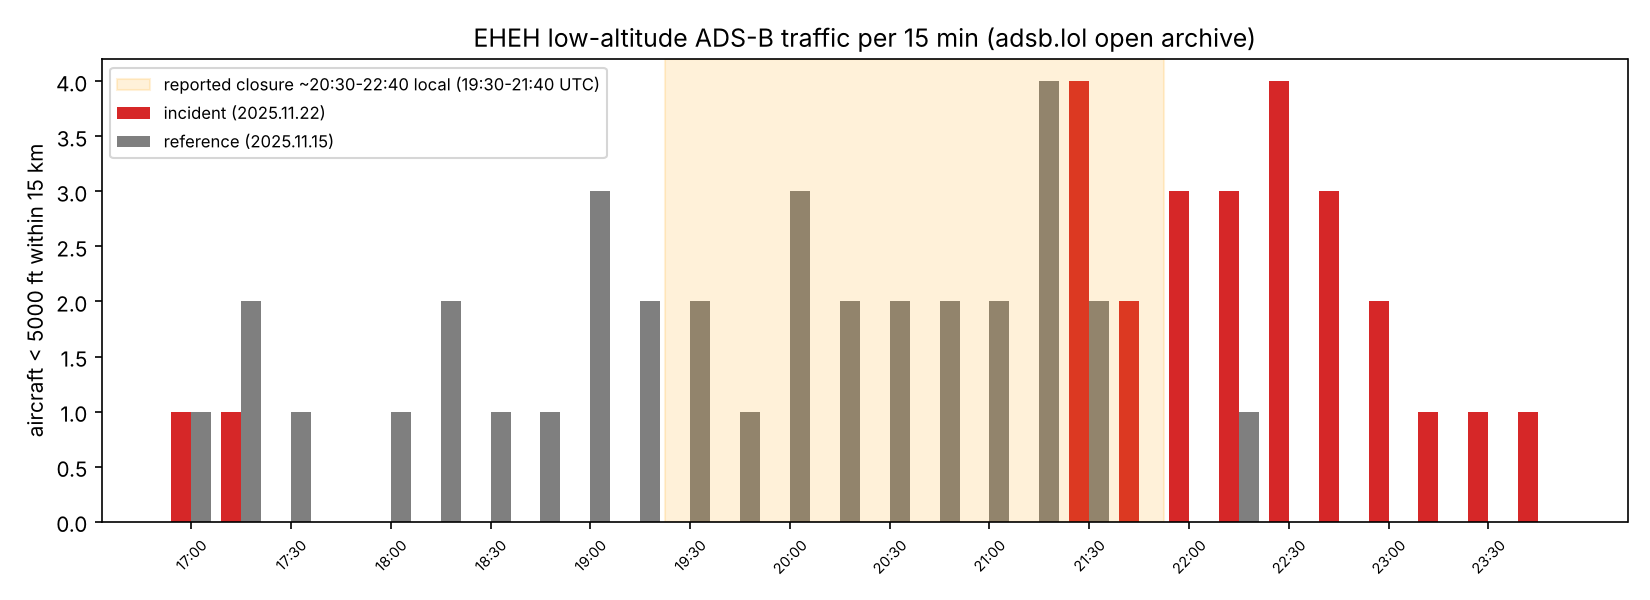
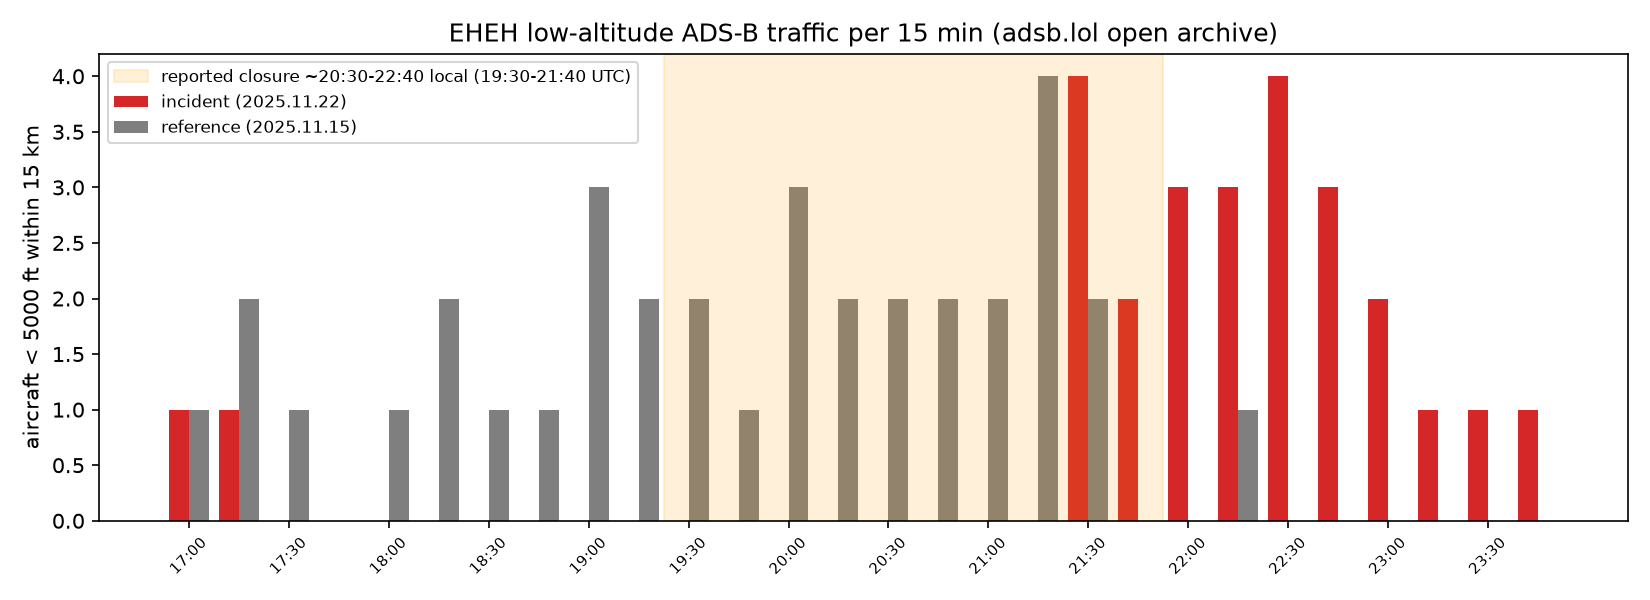
Use the laptop-run versions of the map, ADS-B chart and 07_airspace.py
Claude-Session: https://claude.ai/code/session_019PTpYg1t94J3TDv68SZz6y

diff --git a/docs/pilot-region/EindHoven-Yağız Akkaya/local-data-test/07_airspace.py b/docs/pilot-region/EindHoven-Yağız Akkaya/local-data-test/07_airspace.py
@@ -24,7 +24,6 @@ FALLBACK_BUFFER_M = 3000  # assumption, stated in the report
 PDOK_WFS = "https://service.pdok.nl/lvnl/drone-no-flyzones/wfs/v1_0"
 OPENAIP_NL = "https://storage.googleapis.com/29f98e10-a489-4c82-ae5e-489dbcd4912f/nl_asp.geojson"
 OURAIRPORTS_RUNWAYS = "https://davidmegginson.github.io/ourairports-data/runways.csv"
-PDOK_DEFENCE = "https://api.pdok.nl/defensie/luchtvaartobstakels-terugmeldingen/ogc/v1"
 
 
 def pdok_wfs():
@@ -34,25 +33,6 @@ def pdok_wfs():
         log("PDOK no-fly zones (old WFS)", ok, f"HTTP {r.status_code}" + ("" if ok else " (retired with the OGC API)"))
     except Exception as e:  # noqa: BLE001
         log("PDOK no-fly zones (old WFS)", False, str(e))
-
-
-def pdok_defence_obstacles():
-    """Defence aviation-obstacle reports (PDOK OGC API): the only related PDOK dataset left."""
-    try:
-        r = get(f"{PDOK_DEFENCE}/collections", params={"f": "json"}, retries=1)
-        r.raise_for_status()
-        feats = []
-        for c in [c["id"] for c in r.json().get("collections", [])]:
-            q = get(f"{PDOK_DEFENCE}/collections/{c}/items",
-                    params={"bbox": ",".join(map(str, CONTEXT_WGS84)), "f": "json", "limit": 1000}, retries=1)
-            q.raise_for_status()
-            feats += q.json().get("features", [])
-        (OUT / "pdok_defensie_obstacles_context.geojson").write_text(
-            json.dumps({"type": "FeatureCollection", "features": feats}), encoding="utf-8")
-        log("PDOK Defensie aviation obstacle reports", True,
-            f"API reachable; {len(feats)} obstacle report(s) in the EHEH context box")
-    except Exception as e:  # noqa: BLE001
-        log("PDOK Defensie aviation obstacle reports", False, str(e))
 
 
 def openaip():
@@ -119,6 +99,22 @@ def runway_fallback():
     log("OurAirports runways (EHEH)", True,
         f"{len(rows)} runway(s): {desc}; fallback zone = {FALLBACK_BUFFER_M} m buffer around the centreline (assumption)",
         runways=rows)
+
+
+def pdok_defence_obstacles():
+    """PDOK 'luchtvaartobstakels-terugmeldingen' (Defensie): reported aviation obstacles in the context box."""
+    url = "https://api.pdok.nl/defensie/luchtvaartobstakels-terugmeldingen/ogc/v1/collections/aeroterugmeldingen/items"
+    try:
+        r = get(url, params={"f": "json", "limit": 1000, "bbox": ",".join(map(str, CONTEXT_WGS84))})
+        r.raise_for_status()
+        feats = r.json().get("features", [])
+    except Exception as e:  # noqa: BLE001
+        log("PDOK Defensie aviation obstacle reports", False, str(e))
+        return
+    (OUT / "pdok_defensie_obstacles_context.geojson").write_text(
+        json.dumps({"type": "FeatureCollection", "features": feats}), encoding="utf-8")
+    log("PDOK Defensie aviation obstacle reports", True,
+        f"API reachable; {len(feats)} obstacle report(s) in the EHEH context box", n_context=len(feats))
 
 
 def main():

diff --git a/docs/pilot-region/EindHoven-Yağız Akkaya/local-data-test/results/data-test-report.md b/docs/pilot-region/EindHoven-Yağız Akkaya/local-data-test/results/data-test-report.md
@@ -35,8 +35,6 @@ Also checked by hand (not scripted): the LVNL eAIP returned 403; GoDrone (LVNL's
 
 ![Low-altitude ADS-B traffic near EHEH per 15 minutes, incident evening vs. reference evening](eindhoven-adsb-incident-night.png)
 
-*Chart drawn with the `plot()` function of `08_adsb_history.py` from the 15-minute counts logged in `access-log.json`.*
-
 **What the data shows:** on 22 November there are **no aircraft below 5,000 ft within 15 km of EHEH from 17:30 to 21:30 UTC**; traffic resumes from 21:30 UTC, including a Dutch Air Force Gulfstream (callsign NAF11, 22:03–22:32 UTC). On the reference evening a week earlier, every 15-minute slot in the same window has 1–4 aircraft.
 
 **How to read it:** the gap covers the reported closure (about 19:30–21:40 UTC) but starts about two hours earlier, which the public timeline does not explain. adsb.lol is a volunteer receiver network, so low-altitude coverage can have holes. The gap is therefore **consistent with** the closure, not proof of it.
@@ -73,4 +71,4 @@ Only these aggregate checks are published; no sensor-placement or blind-spot ana
 
 ![Overview map: AHN hillshade, 3DBAG building heights, OSM runway (red) and taxiways (orange), two live OpenSky aircraft (cyan)](eindhoven-data-map.png)
 
-*Map from the first run. The re-run on the laptop also draws the fallback runway buffer (magenta, dashed).*
+*Magenta dashed line = fallback zone: 3 km buffer around the runway centreline (modelling assumption, not an official zone).*
